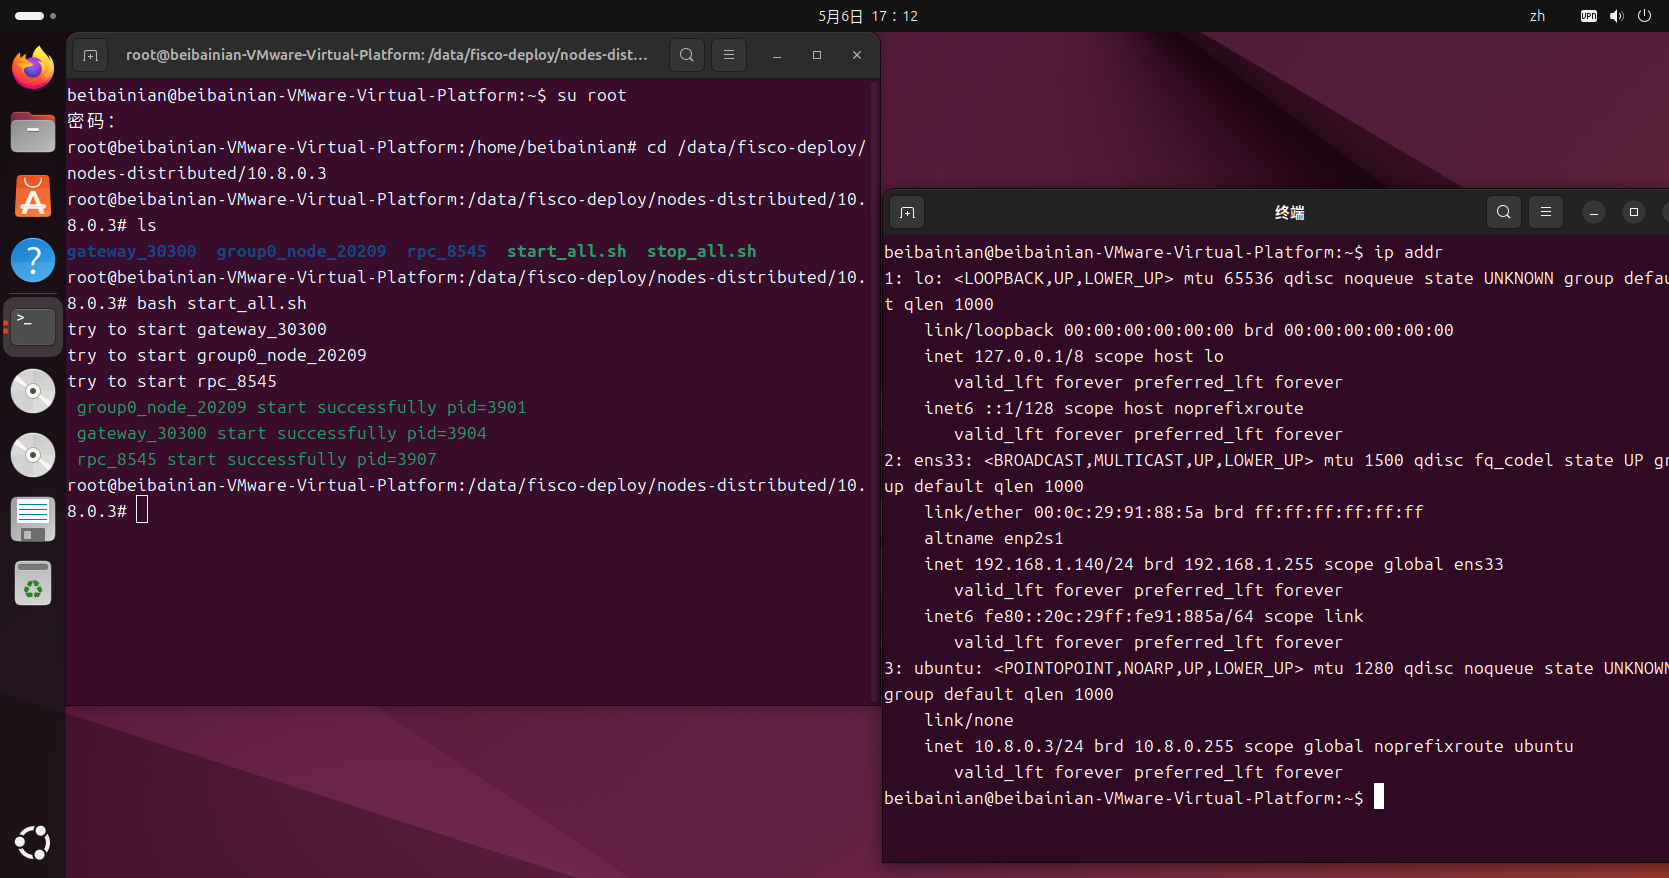
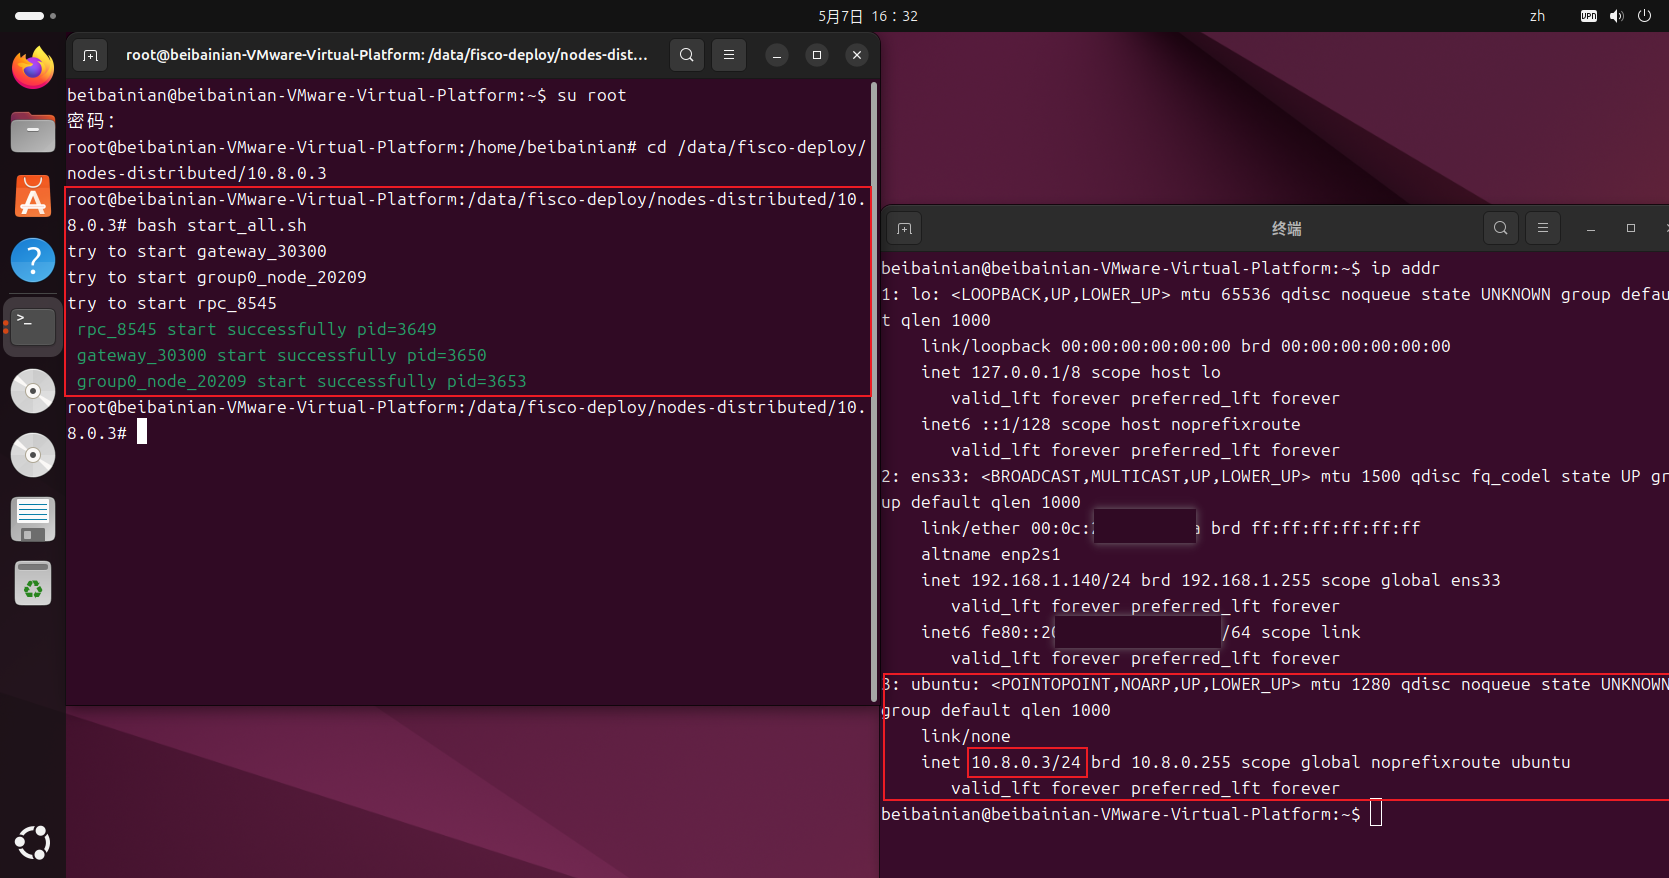
第二篇文档修改

diff --git a/2026/05/06/智链食安/index.html b/2026/05/06/智链食安/index.html
@@ -28,7 +28,7 @@
 <meta property="og:locale" content="zh_CN">
 <meta property="og:image" content="https://beibainian.github.io/blog/blog/images/technology.png">
 <meta property="article:published_time" content="2026-05-06T12:00:00.000Z">
-<meta property="article:modified_time" content="2026-05-06T13:09:37.961Z">
+<meta property="article:modified_time" content="2026-05-07T08:28:50.736Z">
 <meta property="article:author" content="董子阳">
 <meta property="article:tag" content="区块链">
 <meta property="article:tag" content="FISCO BCOS">
@@ -41,7 +41,7 @@
   
   
     <script type="application/ld+json">
-    {"@context":"https://schema.org","@type":"BlogPosting","headline":"智链食安：基于FISCO BCOS的食品供应链全链路可信追溯系统","description":"这篇博客分享一个我大三参与且主导核心底层开发的实战项目《智链食安-基于FISCO BCOS联盟链的食品供应链全链路可信追溯系统》。\n这个项目针对食品供应链行业信息不透明、物流追踪效率低、检疫报告造假三大核心...","image":"https://beibainian.github.io/blog/2026/05/06/%E6%99%BA%E9%93%BE%E9%A3%9F%E5%AE%89/blog/images/technology.png","author":{"@type":"Person","name":"董子阳"},"publisher":{"@type":"Organization","name":"北白念","logo":{"@type":"ImageObject","url":"https://beibainian.github.io/blog/blog/images/logo.png"}},"datePublished":"2026-05-06T12:00:00.000Z","dateModified":"2026-05-06T13:09:37.961Z","mainEntityOfPage":{"@type":"WebPage","@id":"https://beibainian.github.io/blog/2026/05/06/%E6%99%BA%E9%93%BE%E9%A3%9F%E5%AE%89/"}}
+    {"@context":"https://schema.org","@type":"BlogPosting","headline":"智链食安：基于FISCO BCOS的食品供应链全链路可信追溯系统","description":"这篇博客分享一个我大三参与且主导核心底层开发的实战项目《智链食安-基于FISCO BCOS联盟链的食品供应链全链路可信追溯系统》。\n这个项目针对食品供应链行业信息不透明、物流追踪效率低、检疫报告造假三大核心...","image":"https://beibainian.github.io/blog/2026/05/06/%E6%99%BA%E9%93%BE%E9%A3%9F%E5%AE%89/blog/images/technology.png","author":{"@type":"Person","name":"董子阳"},"publisher":{"@type":"Organization","name":"北白念","logo":{"@type":"ImageObject","url":"https://beibainian.github.io/blog/blog/images/logo.png"}},"datePublished":"2026-05-06T12:00:00.000Z","dateModified":"2026-05-07T08:28:50.736Z","mainEntityOfPage":{"@type":"WebPage","@id":"https://beibainian.github.io/blog/2026/05/06/%E6%99%BA%E9%93%BE%E9%A3%9F%E5%AE%89/"}}
     </script>
   
   <!-- 关键 CSS 预加载 -->
@@ -232,7 +232,7 @@
 <li><strong>全链路加密传输实现</strong>：基于WireGuard现代加密协议，完成公私钥对生成、节点身份认证、传输层全加密配置，保障节点间数据同步、区块传输的全程加密，杜绝数据传输过程中的泄露、篡改与劫持风险。</li>
 <li><strong>稳定性与运维优化</strong>：配置节点心跳检测、断线自动重连与异常告警机制，实现节点网络状态的7*24小时实时监控，解决了跨地域节点网络波动导致的同步中断问题，保障联盟链底层网络的持续稳定运行。</li>
 </ul>
-<p><img src="/blog/blog/zlsa/wireguard-ip.png" alt="各节点对应虚拟IP与网络状态监控"></p>
+<p><img src="/blog/blog/zlsa/wireguard-ip.png" alt="各节点对应虚拟IP与网络状态监控"><br><img src="/blog/blog/zlsa/start_node.png" alt="某节点启动界面"></p>
 <h3 id="3-链上节点通信与共识机制优化"><a href="#3-链上节点通信与共识机制优化" class="headerlink" title="3. 链上节点通信与共识机制优化"></a>3. 链上节点通信与共识机制优化</h3><p>针对食品供应链高频数据上链、多节点协同确认的业务需求，我完成了P2P节点通信协议优化与共识机制调优，平衡了分布式系统数据一致性与交易执行效率的核心矛盾。</p>
 <ul>
 <li><strong>P2P通信机制调优</strong>：优化了节点发现、心跳保活、区块同步、交易广播的核心逻辑，解决了跨地域节点网络延迟导致的区块同步滞后、交易确认超时等问题，实现了多节点间数据的毫秒级同步。</li>
@@ -274,7 +274,7 @@
                     <a class="tag-none-link" href="/blog/tags/FISCO-BCOS/" rel="tag">FISCO BCOS</a>, <a class="tag-none-link" href="/blog/tags/WireGuard/" rel="tag">WireGuard</a>, <a class="tag-none-link" href="/blog/tags/%E5%8C%BA%E5%9D%97%E9%93%BE/" rel="tag">区块链</a>, <a class="tag-none-link" href="/blog/tags/%E6%99%BA%E8%83%BD%E5%90%88%E7%BA%A6/" rel="tag">智能合约</a>
                 </div>
                 <div class="pull-date">
-                    <time datetime="2026-05-06T13:09:37.961Z" itemprop="dateModified">最后编辑：2026-05-06</time>
+                    <time datetime="2026-05-07T08:28:50.736Z" itemprop="dateModified">最后编辑：2026-05-07</time>
                 </div>
             </div>
         </footer>

diff --git a/search/index.html b/search/index.html
@@ -251,10 +251,10 @@
 <div id="kr-search-results">
     <div class="kratos-hentry kratos-page-inner clearfix">
         <div class="kratos-page-content kr-search-result">
-            <p>搜索多个关键词时请用空格分割，例如「Hexo & Kratos-Rebirth YOLOv8 树莓派 」这样；</p>
+            <p>搜索多个关键词时请用空格分割，例如「Hexo & Kratos-Rebirth 区块链 FISCO BCOS 」这样；</p>
             <p>您也可以使用这些标签碰碰运气哦~</p>
             <p class="search-demo-tags">
-                <a href="/blog/tags/Hexo-Kratos-Rebirth/" style="font-size: 18px; color: #b2b7be">Hexo & Kratos-Rebirth</a> <a href="/blog/tags/YOLOv8/" style="font-size: 18px; color: #b2b7be">YOLOv8</a> <a href="/blog/tags/%E6%A0%91%E8%8E%93%E6%B4%BE/" style="font-size: 18px; color: #b2b7be">树莓派</a> <a href="/blog/tags/Vue/" style="font-size: 18px; color: #b2b7be">Vue</a> <a href="/blog/tags/Spring-Boot/" style="font-size: 18px; color: #b2b7be">Spring Boot</a> <a href="/blog/tags/%E5%8C%BA%E5%9D%97%E9%93%BE/" style="font-size: 18px; color: #b2b7be">区块链</a> <a href="/blog/tags/FISCO-BCOS/" style="font-size: 18px; color: #b2b7be">FISCO BCOS</a> <a href="/blog/tags/%E6%99%BA%E8%83%BD%E5%90%88%E7%BA%A6/" style="font-size: 18px; color: #b2b7be">智能合约</a> <a href="/blog/tags/WireGuard/" style="font-size: 18px; color: #b2b7be">WireGuard</a>
+                <a href="/blog/tags/Hexo-Kratos-Rebirth/" style="font-size: 18px; color: #b2b7be">Hexo & Kratos-Rebirth</a> <a href="/blog/tags/%E5%8C%BA%E5%9D%97%E9%93%BE/" style="font-size: 18px; color: #b2b7be">区块链</a> <a href="/blog/tags/FISCO-BCOS/" style="font-size: 18px; color: #b2b7be">FISCO BCOS</a> <a href="/blog/tags/%E6%99%BA%E8%83%BD%E5%90%88%E7%BA%A6/" style="font-size: 18px; color: #b2b7be">智能合约</a> <a href="/blog/tags/WireGuard/" style="font-size: 18px; color: #b2b7be">WireGuard</a> <a href="/blog/tags/YOLOv8/" style="font-size: 18px; color: #b2b7be">YOLOv8</a> <a href="/blog/tags/%E6%A0%91%E8%8E%93%E6%B4%BE/" style="font-size: 18px; color: #b2b7be">树莓派</a> <a href="/blog/tags/Vue/" style="font-size: 18px; color: #b2b7be">Vue</a> <a href="/blog/tags/Spring-Boot/" style="font-size: 18px; color: #b2b7be">Spring Boot</a>
             </p>
         </div>
     </div>
